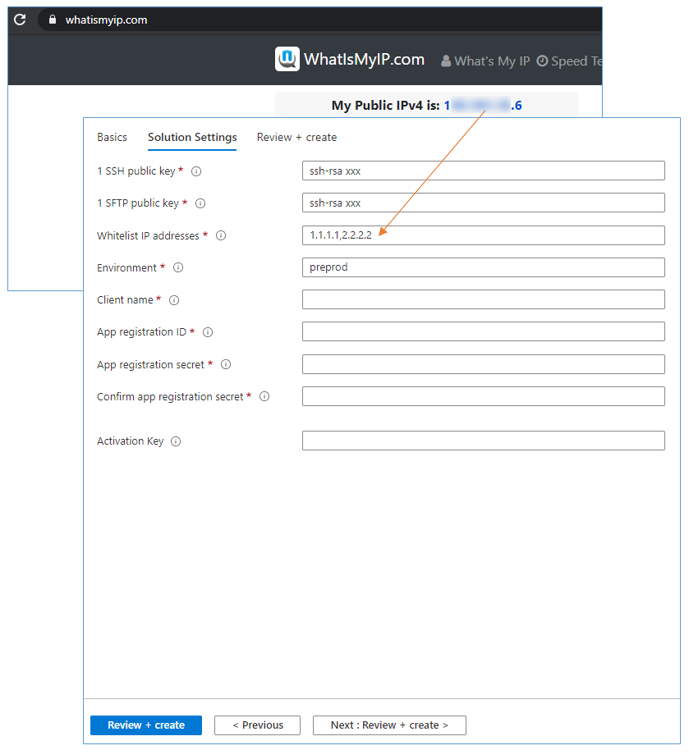
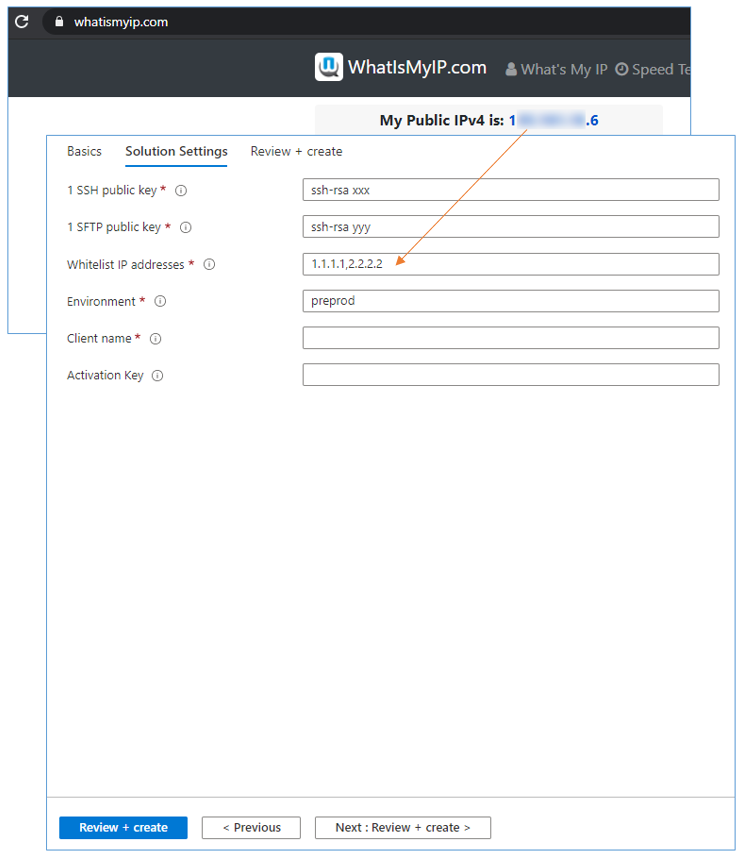
update documents v1.1.1.0

diff --git a/gitbook/user_manual/ii_pages.md b/gitbook/user_manual/ii_pages.md
@@ -78,33 +78,7 @@ The client name combines with environment make your resources unique among subsc
 
 Constraints: Lowercase letters and numbers only, length in range [3-10] letters.
 
-### 6. App registration ID & secret
-
-This ID use for NiFi configuration, make NiFi connect to Data Lake Storage
-
-If you already have your own App registration, skip this step.
-
-If you don’t have any App registration, just create one: From Azure Portal -> Go to "Azure Active Directory" -> "App registrations" -> "New registration"
-
-***/!\ The name "NIFI-MARKETPLACE-APPS" just an example name, you can use any name as you like.***
-
-![azure_1](imgs/azure_1.png "")
-
-Go to Overview, get Client ID:
-
-![azure_2](imgs/azure_2.png "")
-
-Go to Certificate & Secret, create new one.
-
-![azure_3](imgs/azure_3.png "")
-
-***/!\ The name "nifi-config-secret" just an example name, you can use any name as you like***
-
-![azure_4](imgs/azure_4.png "")
-
-![azure_5](imgs/azure_5.png "")
-
-### 7. Activation Key
+### 6. Activation Key
 
 In case you don’t have it before, please leave it blank.  
 

diff --git a/gitbook/user_manual/iii_pages.md b/gitbook/user_manual/iii_pages.md
@@ -6,16 +6,5 @@ Successfully deployment screen and confirm Outputs
 
 ![verify_2](imgs/verify_2.png "")
 
-***/!\ One more step: Grant access for “NIFI-MARKETPLACE-APPS” to your Data Lake Storage***
-
-Config on Data Lake Storage:
-
-![verify_3](imgs/verify_3.png "")
-
-![verify_4](imgs/verify_4.png "")
-
-Confirm this screen:
-
-![verify_5](imgs/verify_5.png "")
 
 ---
